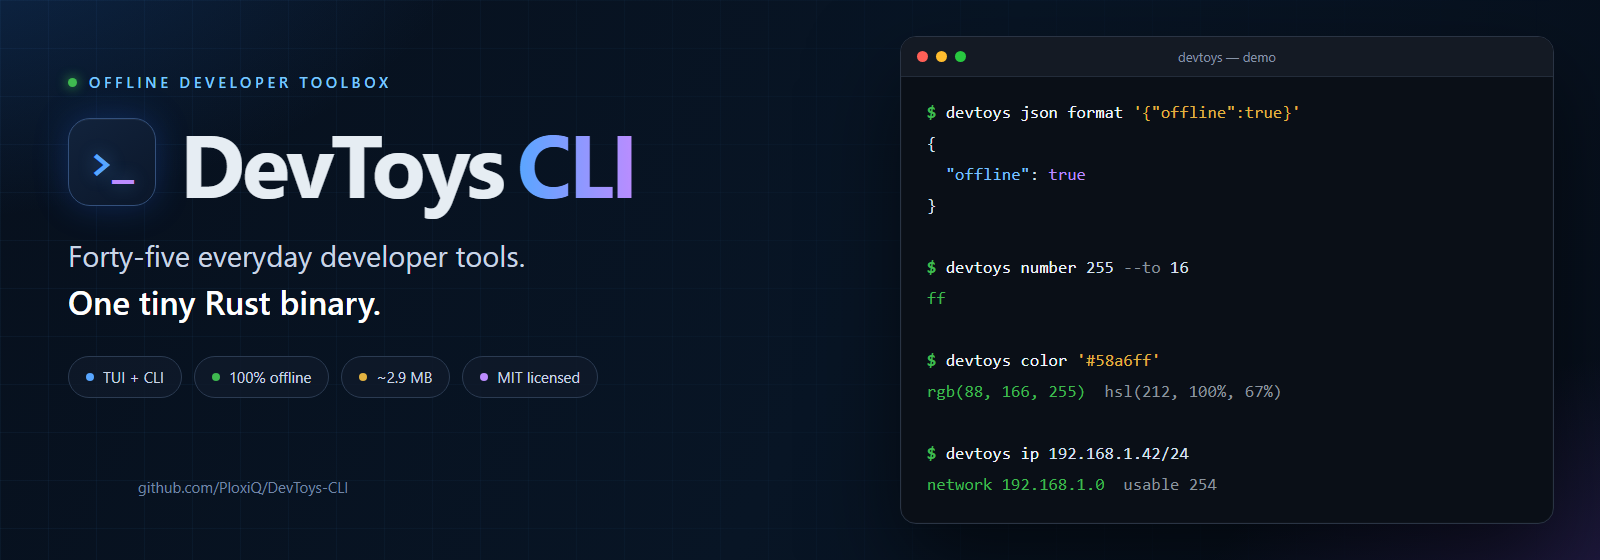
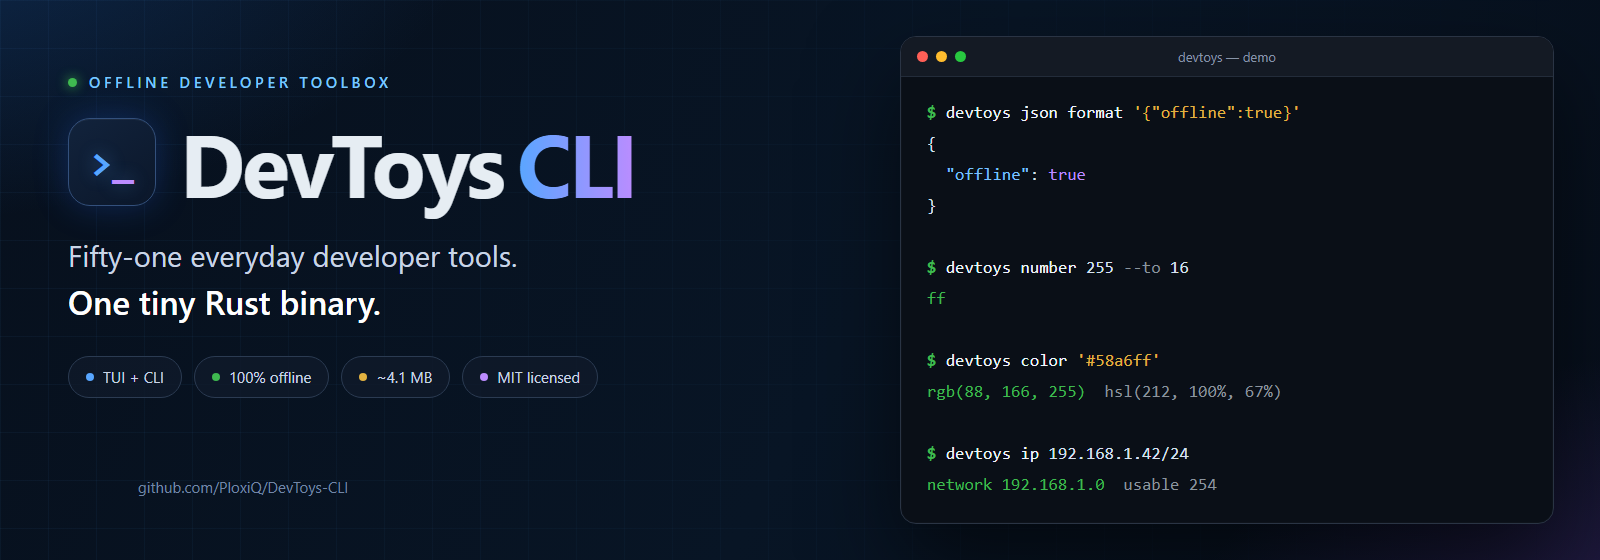
Release v0.3.0
Bump the crate to 0.3.0, document the 51 TUI entries and new tools, add cargo-binstall installation notes, and refresh the banner, social preview and TUI screenshot for the release.

Changed region(s): [[0.0312, 0.425, 0.3438, 0.4857]]

diff --git a/README.md b/README.md
@@ -42,7 +42,7 @@
 <summary>Plain-text TUI preview</summary>
 
 ```text
-  DEVTOYS CLI  offline developer toolbox                    51 tools · zero network calls · v0.2.1
+  DEVTOYS CLI  offline developer toolbox                    51 tools · zero network calls · v0.3.0
   ───────────────────────────────────────────────────────────────────────────────────────────────
 ┌ Tools 51─────────────────────┐  JSON Format  FORMAT & CONVERT
 │ FORMAT & CONVERT             │  Pretty-print JSON and preserve key order.
@@ -71,7 +71,7 @@
 │   Date to Timestamp          │
 │   Cron Explainer             │
 └──────────────────────────────┘
-  Up/Down navigate   Enter edit   ? help   q quit               51 tools · offline by design · MIT · v0.2.1
+  Up/Down navigate   Enter edit   ? help   q quit               51 tools · offline by design · MIT · v0.3.0
 ```
 
 </details>
@@ -102,6 +102,15 @@ Download the latest archive from [GitHub Releases](https://github.com/PloxiQ/Dev
 | macOS Intel | `devtoys-vX.Y.Z-x86_64-apple-darwin.tar.gz` |
 
 Each archive contains the `devtoys` binary, `README.md` and `LICENSE`. Verify downloads with the `SHA256SUMS` file attached to every release.
+
+### Install with cargo-binstall
+
+```bash
+cargo binstall devtoys-cli
+```
+
+`cargo-binstall` downloads the prebuilt archive for your platform when one is available,
+instead of compiling from source.
 
 ### Build from source
 
@@ -731,8 +740,8 @@ The release workflow in `.github/workflows/release.yml` builds archives for Wind
 2. Push a matching tag:
 
     ```bash
-    git tag -a v0.2.1 -m "DevToys CLI v0.2.1"
-    git push origin v0.2.1
+    git tag -a v0.3.0 -m "DevToys CLI v0.3.0"
+    git push origin v0.3.0
     ```
 
 3. GitHub Actions builds the four platform archives, generates `SHA256SUMS`, and publishes a GitHub Release with generated notes.

diff --git a/CHANGELOG.md b/CHANGELOG.md
@@ -5,12 +5,23 @@ All notable changes to this project are documented in this file.
 The format is based on [Keep a Changelog](https://keepachangelog.com/en/1.1.0/),
 and this project follows [Semantic Versioning](https://semver.org/spec/v2.0.0.html).
 
-## [Unreleased]
+## [0.3.0] - 2026-11-10
 
 ### Added
 
+- Six new TUI entries and five new tool families: RFC 4648 Base32 encode/decode,
+  offline HTTP header inspection with redaction, bounded three-way file merging,
+  terminal and SVG QR codes, and offline JSON Schema validation. The toolbox now
+  has 51 TUI entries across both the TUI and CLI.
+- HTTP header parsing preserves duplicate headers, accepts request and status
+  lines, canonicalizes names, and can redact authorization and cookie values.
+- Three-way merge prints standard conflict markers and exits with status 1 on
+  conflicts; clean merges print only the merged text.
+- JSON Schema validation uses internal references only and reports JSON Pointer
+  paths with arbitrary-precision numbers.
 - `devtoys completions <shell>` generates completion scripts for Bash, Zsh, Fish,
   PowerShell and Elvish.
+- `cargo binstall devtoys-cli` can install prebuilt release archives.
 - The release workflow now runs the full quality gate and verifies that the tag
   matches `Cargo.toml` before building archives.
 
